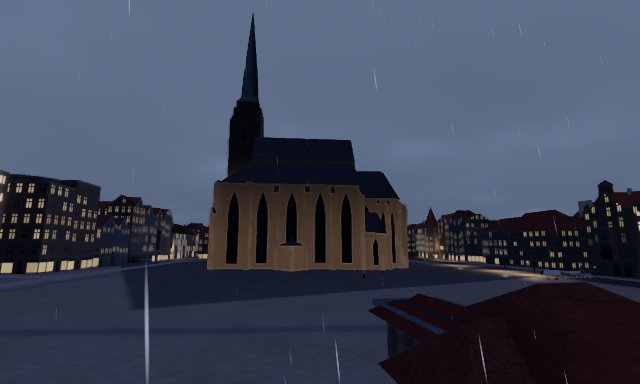
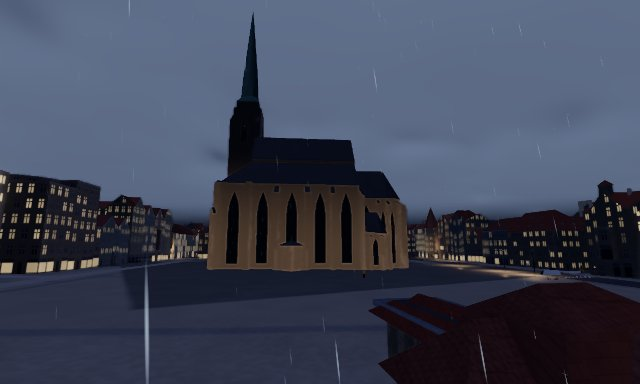
Obnovit snímky náměstí v dešti a sněhu po opravě oblohy

diff --git a/docs/codex/stav.md b/docs/codex/stav.md
@@ -6,6 +6,8 @@ E24 navazuje na G17 ve větvi E23 (`fe30ef0`). [Zadání E24](E24.md)
 
 Ve vysoké předvolbě se u nádraží objevila černá obloha. Na stejném místě po opravě zmizely černé plochy a mezi oblaky je vidět modrá obloha. Oprava zachovává krytí vypočtené pro každý paprsek i při přebírání předchozího snímku. WebGL 2 i WebGPU našly částečně průhledné vzorky mezi oblaky a ověřily nulové krytí při pohledu přímo dolů. Prošlo 166 jednotkových testů JavaScriptu a produkční sestavení. [Porovnání obrazu](../E24.md)
 
+Snímky náměstí v protokolu nyní pocházejí z opraveného vykreslování. V dešti v 18:09 zůstaly viditelné večerní osvětlení a srážky, v lednovém sněhu se pokryly střechy i dlažba náměstí. Obě scény mají shodnou kameru.
+
 ## G18 a G20 · Fasády a střechy
 
 Na střední až ultra předvolbě se sedm fotografických fasád řídí typem budovy a paletou čtvrti. Okna, sokl a ostění sdílejí souřadnice. Pět střešních vrstev rozlišuje tašky, plech, měď, lepenku a vláknocement. Měděná patina na katedrále začíná až na věži. Převod spároval materiálové údaje OSM s 138 budovami projektu. Ostatní plochy používají výběr podle stylu a barvy.
